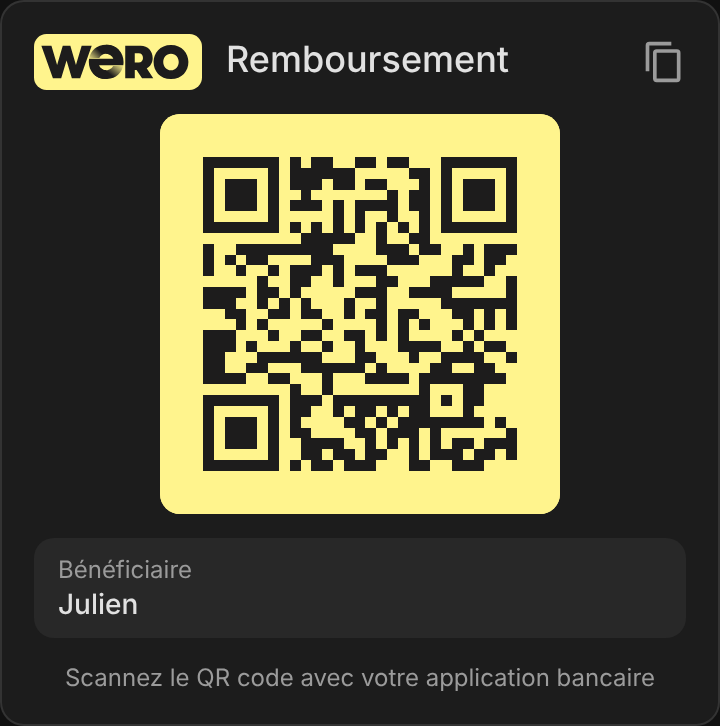
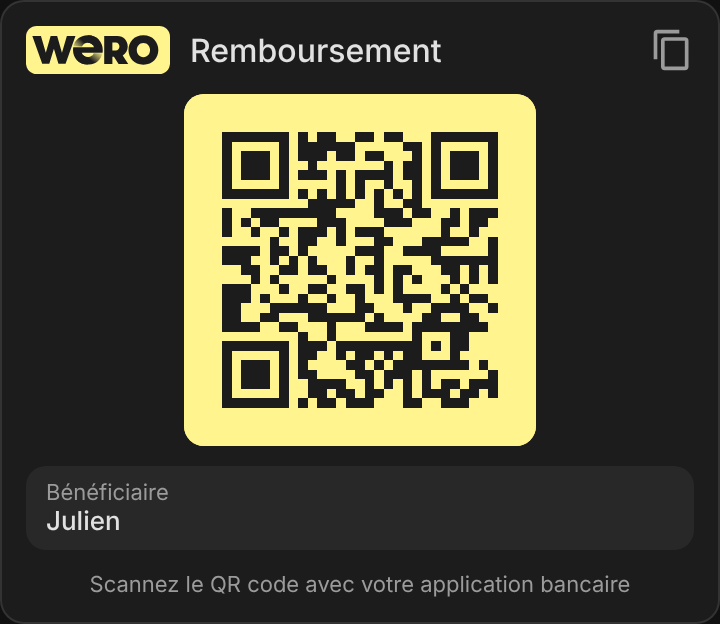
Compact layout with the same information (1.4.0) (#7)
Claude-Session: https://claude.ai/code/session_01FyVHJkuQopwM66ytqwsrgB

diff --git a/src/wero-card.js b/src/wero-card.js
@@ -147,22 +147,22 @@ class WeroCard extends HTMLElement {
     this.shadowRoot.innerHTML = `
       <style>
         :host { display: block; height: 100%; }
-        ha-card { height: 100%; box-sizing: border-box; padding: 16px; display: flex; flex-direction: column; align-items: center; justify-content: flex-start; gap: 12px; }
-        .header { display: flex; align-items: center; gap: 12px; width: 100%; }
-        .logo { height: 28px; width: auto; display: block; flex: none; }
-        .name { flex: 1; min-width: 0; font-size: 18px; font-weight: 500; line-height: 1.25; color: var(--primary-text-color); white-space: nowrap; overflow: hidden; text-overflow: ellipsis; }
+        ha-card { height: 100%; box-sizing: border-box; padding: 12px; display: flex; flex-direction: column; align-items: center; justify-content: flex-start; gap: 10px; }
+        .header { display: flex; align-items: center; gap: 10px; width: 100%; }
+        .logo { height: 24px; width: auto; display: block; flex: none; }
+        .name { flex: 1; min-width: 0; font-size: 16px; font-weight: 500; line-height: 1.25; color: var(--primary-text-color); white-space: nowrap; overflow: hidden; text-overflow: ellipsis; }
         ha-icon { color: var(--secondary-text-color); --mdc-icon-size: 22px; }
         .header > ha-icon { --mdc-icon-size: 40px; }
         button { background: none; border: none; cursor: pointer; padding: 0; display: flex; align-items: center; }
         .qr-wrap { background: #fff48d; border-radius: 10px; overflow: hidden; line-height: 0; max-width: 100%; cursor: zoom-in; }
-        .qr-wrap svg { max-width: 100%; height: auto; }
+        .qr-wrap svg { max-width: 100%; height: auto; width: 176px; }
         dialog { border: none; padding: 0; margin: auto; background: #fff48d; border-radius: 12px; line-height: 0; overflow: hidden; cursor: zoom-out; }
         dialog::backdrop { background: rgba(0,0,0,0.85); }
         dialog svg { width: min(90vw, 90vh); height: auto; display: block; }
-        .info-row { width: 100%; box-sizing: border-box; background: var(--secondary-background-color, rgba(127,127,127,.08)); border-radius: 10px; padding: 8px 12px; }
-        .lbl { font-size: 12px; color: var(--secondary-text-color); margin-bottom: 2px; }
-        .val { font-size: 14px; font-weight: 500; word-break: break-word; color: var(--primary-text-color); }
-        .hint { font-size: 12px; color: var(--secondary-text-color); text-align: center; }
+        .info-row { width: 100%; box-sizing: border-box; background: var(--secondary-background-color, rgba(127,127,127,.08)); border-radius: 10px; padding: 6px 10px; }
+        .lbl { font-size: 11px; color: var(--secondary-text-color); margin-bottom: 0; }
+        .val { font-size: 13px; font-weight: 500; word-break: break-word; color: var(--primary-text-color); }
+        .hint { font-size: 11px; color: var(--secondary-text-color); text-align: center; }
       </style>
       <ha-card>
         <div class="header">

diff --git a/CHANGELOG.md b/CHANGELOG.md
@@ -1,5 +1,11 @@
 # Changelog
 
+## 1.4.0
+
+### Changes
+- More compact layout with the same information, like the other ha-* cards: 12 px card padding, 36 px header icon, 16 px name and 12 px subtitle, 11 px pills, tighter tiles and sections.
+- QR code shown at 176 px, tighter payee block and hint.
+
 ## 1.3.3
 
 ### Changes
